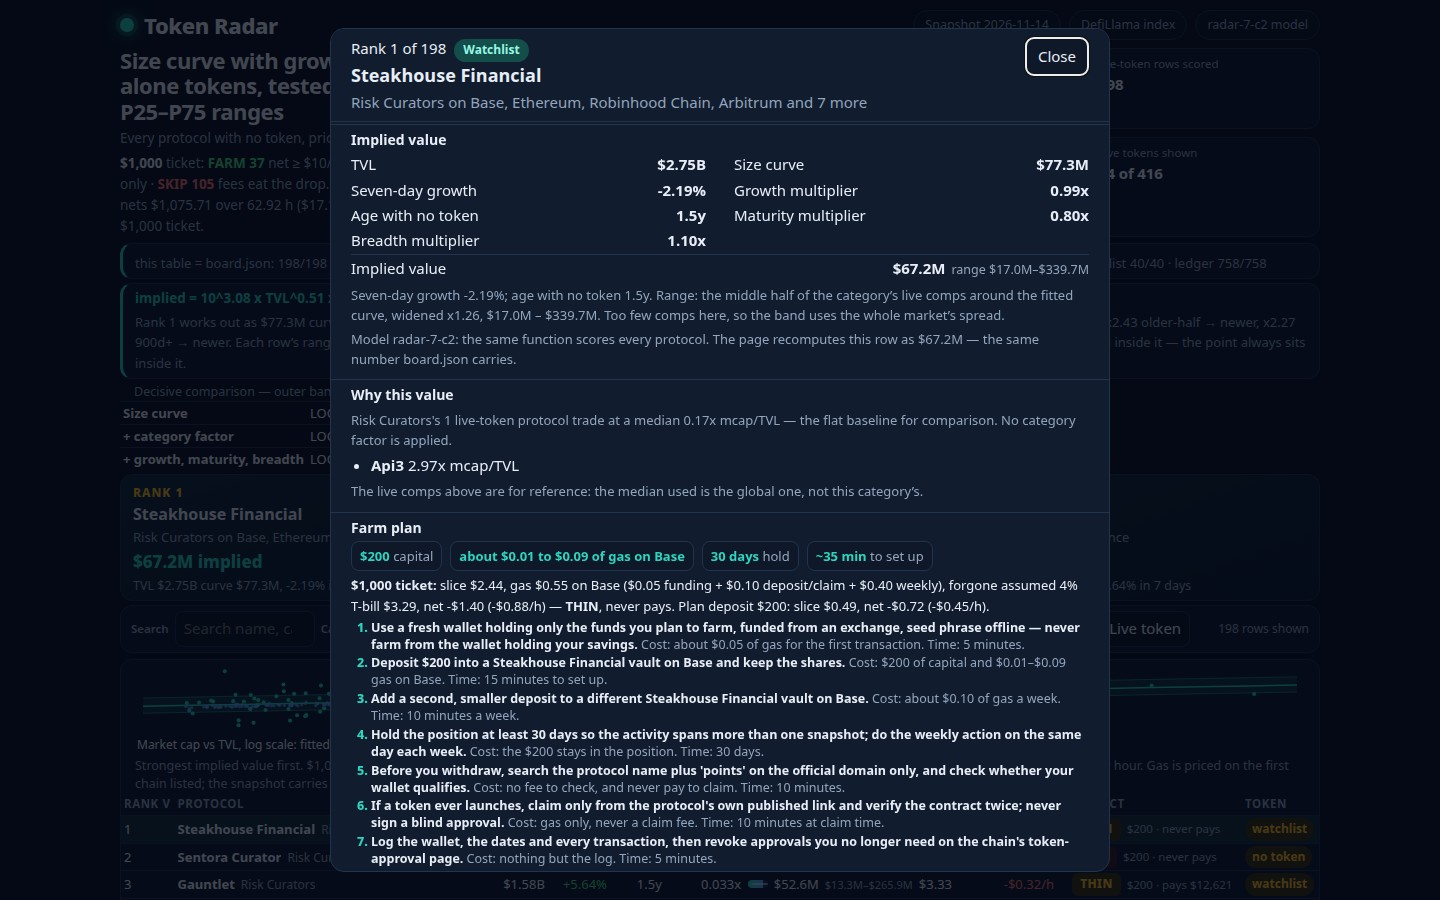
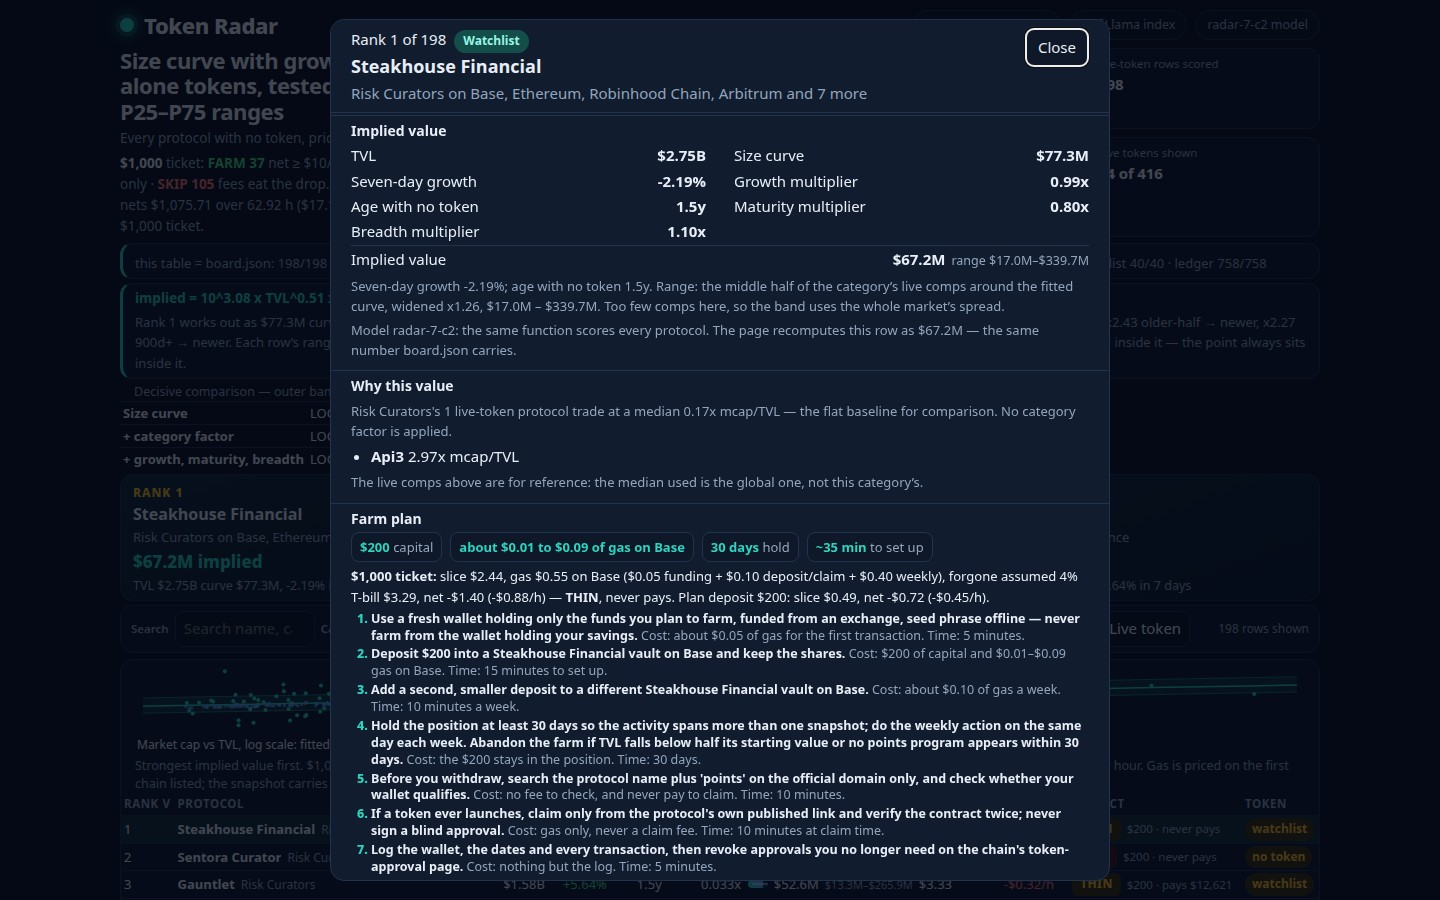
slot7: QA fix round — bootstrap-qualified term text, farm stop rule, comment cleanups
- F1: term-panel sub-text no longer claims no dropped term beats shipped
  on both; now bootstrap-qualified (hinge wins on medians, CI covers zero)
- F2: farm step 4 gains a stop rule (TVL below half its starting value,
  or no points program appears within the hold window)
- F4/F5 + model.ts:115: 'nightshift's rule' -> 'the break-even-odds rule';
  'best variant' qualified under the both-tests rule; 'Risk Curators 1.64x'
  phrase removed from the factor-removal comment
- Dossier text 65,455 -> 65,512 bytes (cap 65,536, cut=false, app.js whole);
  board.json sha256 unchanged 4d93a5ec2a5c3034427eca76f339c39128941698fed68181fdfa6e4e0d9c0e3a
- Screenshots: 2-detail.jpg retaken (step-4 stop sentence); 1-board and
  3-filtered pixel-identical to committed, kept

diff --git a/dashboard/app.js b/dashboard/app.js
@@ -1,4 +1,3 @@
-// Token Radar dashboard: reads window.RADAR and renders the board. No network.
 (function () {
   'use strict';
 
@@ -40,7 +39,6 @@
     return Math.max(1, Math.round(curve * growthMult * maturity * breadth));
   }
 
-  // The verdict under the board's rule (DATA.verdict_rule): mirrors verdictFor in lib/model.ts.
   function verdictOf(slice, gas, forgone, net, netPerHour) {
     var r = DATA.verdict_rule || { kind: 'net_positive' };
     if (r.kind === 'net_per_hour') return netPerHour >= r.threshold_usd ? 'FARM' : slice - gas > 0 ? 'THIN' : 'SKIP';
@@ -158,7 +156,7 @@
       { text: 'Use a fresh wallet holding only the funds you plan to farm, funded from an exchange, seed phrase offline — never farm from the wallet holding your savings.', cost: 'about ' + fmtGas(DATA.farm.gas_funding_txs * txGas) + ' of gas for the first transaction', time: '5 minutes' },
       { text: actionFor(p, capital, chain), cost: '$' + capital + ' of capital and ' + gas, time: '15 minutes to set up' },
       { text: secondActionFor(p, capital, chain), cost: 'about ' + fmtGas(DATA.farm.gas_weekly_txs * txGas) + ' of gas a week', time: '10 minutes a week' },
-      { text: 'Hold the position at least ' + hold + ' days so the activity spans more than one snapshot; do the weekly action on the same day each week.', cost: 'the $' + capital + ' stays in the position', time: hold + ' days' },
+      { text: 'Hold the position at least ' + hold + ' days so the activity spans more than one snapshot; do the weekly action on the same day each week. Abandon the farm if TVL falls below half its starting value or no points program appears within ' + hold + ' days.', cost: 'the $' + capital + ' stays in the position', time: hold + ' days' },
       { text: "Before you withdraw, search the protocol name plus 'points' on the official domain only, and check whether your wallet qualifies.", cost: 'no fee to check, and never pay to claim', time: '10 minutes' },
       { text: "If a token ever launches, claim only from the protocol's own published link and verify the contract twice; never sign a blind approval.", cost: 'gas only, never a claim fee', time: '10 minutes at claim time' },
       { text: 'Log the wallet, the dates and every transaction, then revoke approvals you no longer need on the chain\'s token-approval page.', cost: 'nothing but the log', time: '5 minutes' }
@@ -537,7 +535,7 @@
     });
     return el('section', { class: 'panel' },
       el('h2', { text: 'What was tried, and what won' }),
-      el('p', { class: 'sub', text: 'Every term below was scored on two held-out tests: leave-one-out and walk-forward by listing date (older fit, newer tested). A term that wins one test but loses the other is not kept; no dropped term beats the shipped model on both. The shipped model is the curve with growth, maturity and breadth — no category factor: fitted and dropped, losing on all three tests. The remodel beats the curve alone on all three tests.' }),
+      el('p', { class: 'sub', text: 'Every term below was scored on two held-out tests: leave-one-out and walk-forward by listing date (older fit, newer tested). A term that wins one test but loses the other is not kept; no dropped term beats the shipped model on both tests by a margin the paired bootstrap confirms: the $1B hinge wins on medians, but its bootstrap interval covers zero. The shipped model is the curve with growth, maturity and breadth — no category factor: fitted and dropped, losing on all three tests. The remodel beats the curve alone on all three tests.' }),
       el('div', { class: 'table-wrap' },
         el('table', null,
           el('thead', null, el('tr', null, el('th', { scope: 'col', text: 'Term' }), el('th', { scope: 'col', text: 'Leave-one-out' }), el('th', { scope: 'col', text: 'WF older half → newer' }), el('th', { scope: 'col', text: 'WF 900d+ → newer' }), el('th', { scope: 'col', text: 'Verdict' }))),

diff --git a/lib/model.ts b/lib/model.ts
@@ -109,10 +109,10 @@
 // shrunk n/(n+3)) loses on all three held-out tests: curve alone LOO
 // x3.11, walk-forward x2.45/x2.34; curve plus factor LOO x3.86,
 // walk-forward x2.57/x2.34; curve plus multipliers without the factor
-// LOO x2.98, walk-forward x2.43/x2.27 — the best variant on all three
+// LOO x2.98, walk-forward x2.43/x2.27 — the best variant under the both-tests rule on all three
 // tests, and the only one that puts the top three rows inside the
 // field's cover range with the lowest total ($1.61B; shipped $1.90B).
-// The Risk Curators 1.64x (n=1, Api3) factor disappears entirely,
+// The (n=1, Api3) factor disappears entirely,
 // including its line in the detail build-up. The remodel's board is
 // mostly size-ordered (Spearman 0.960 against TVL), stated as a
 // limitation rather than hidden. The verdict rule is re-specified on
@@ -346,7 +346,7 @@ export interface LiveRow {
   change_7d: number | null;
 }
 
-/** The verdict rule a ticket is struck under. 'net_positive' is the shipped Slot #6 rule (FARM when net > 0); 'net_per_hour' is a $/h floor on the ticket's net; 'breakeven_odds' is nightshift's rule — the odds a launch must have to repay the ticket's costs, (gas + forgone) / slice. */
+/** The verdict rule a ticket is struck under. 'net_positive' is the shipped Slot #6 rule (FARM when net > 0); 'net_per_hour' is a $/h floor on the ticket's net; 'breakeven_odds' is the break-even-odds rule — the odds a launch must have to repay the ticket's costs, (gas + forgone) / slice. */
 export type VerdictRule =
   | { kind: 'net_positive' }
   | { kind: 'net_per_hour'; threshold_usd: number }
